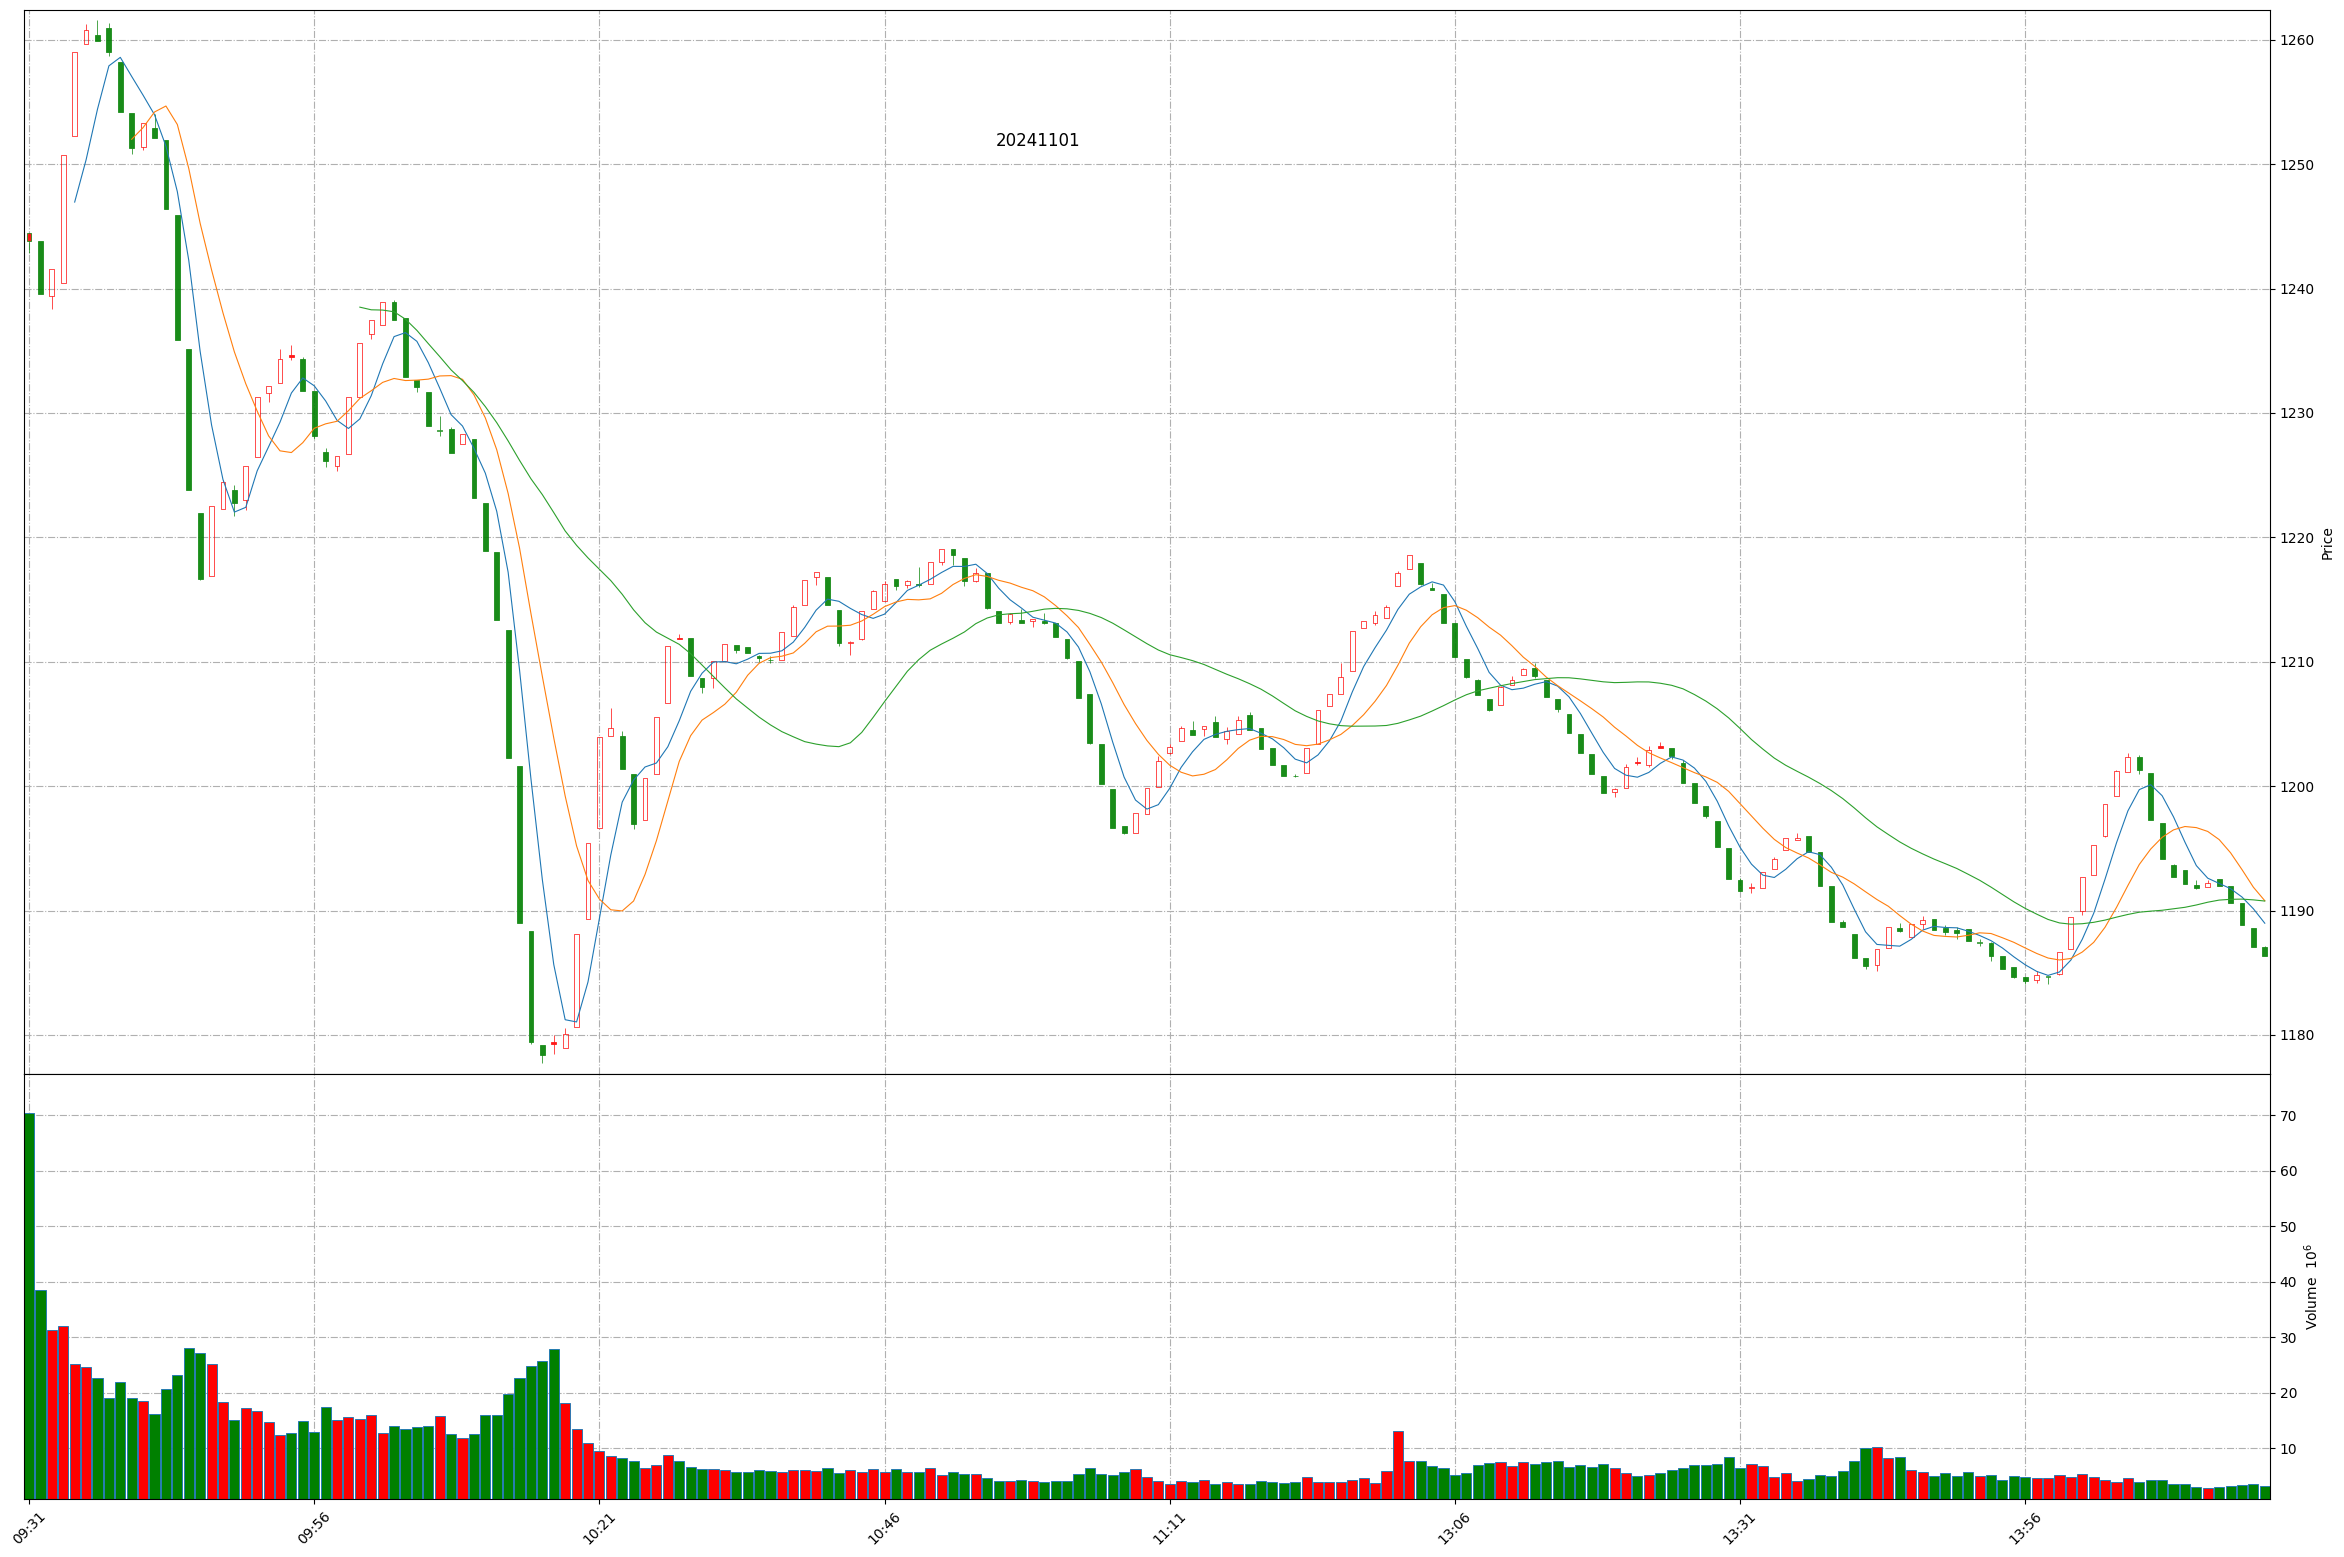
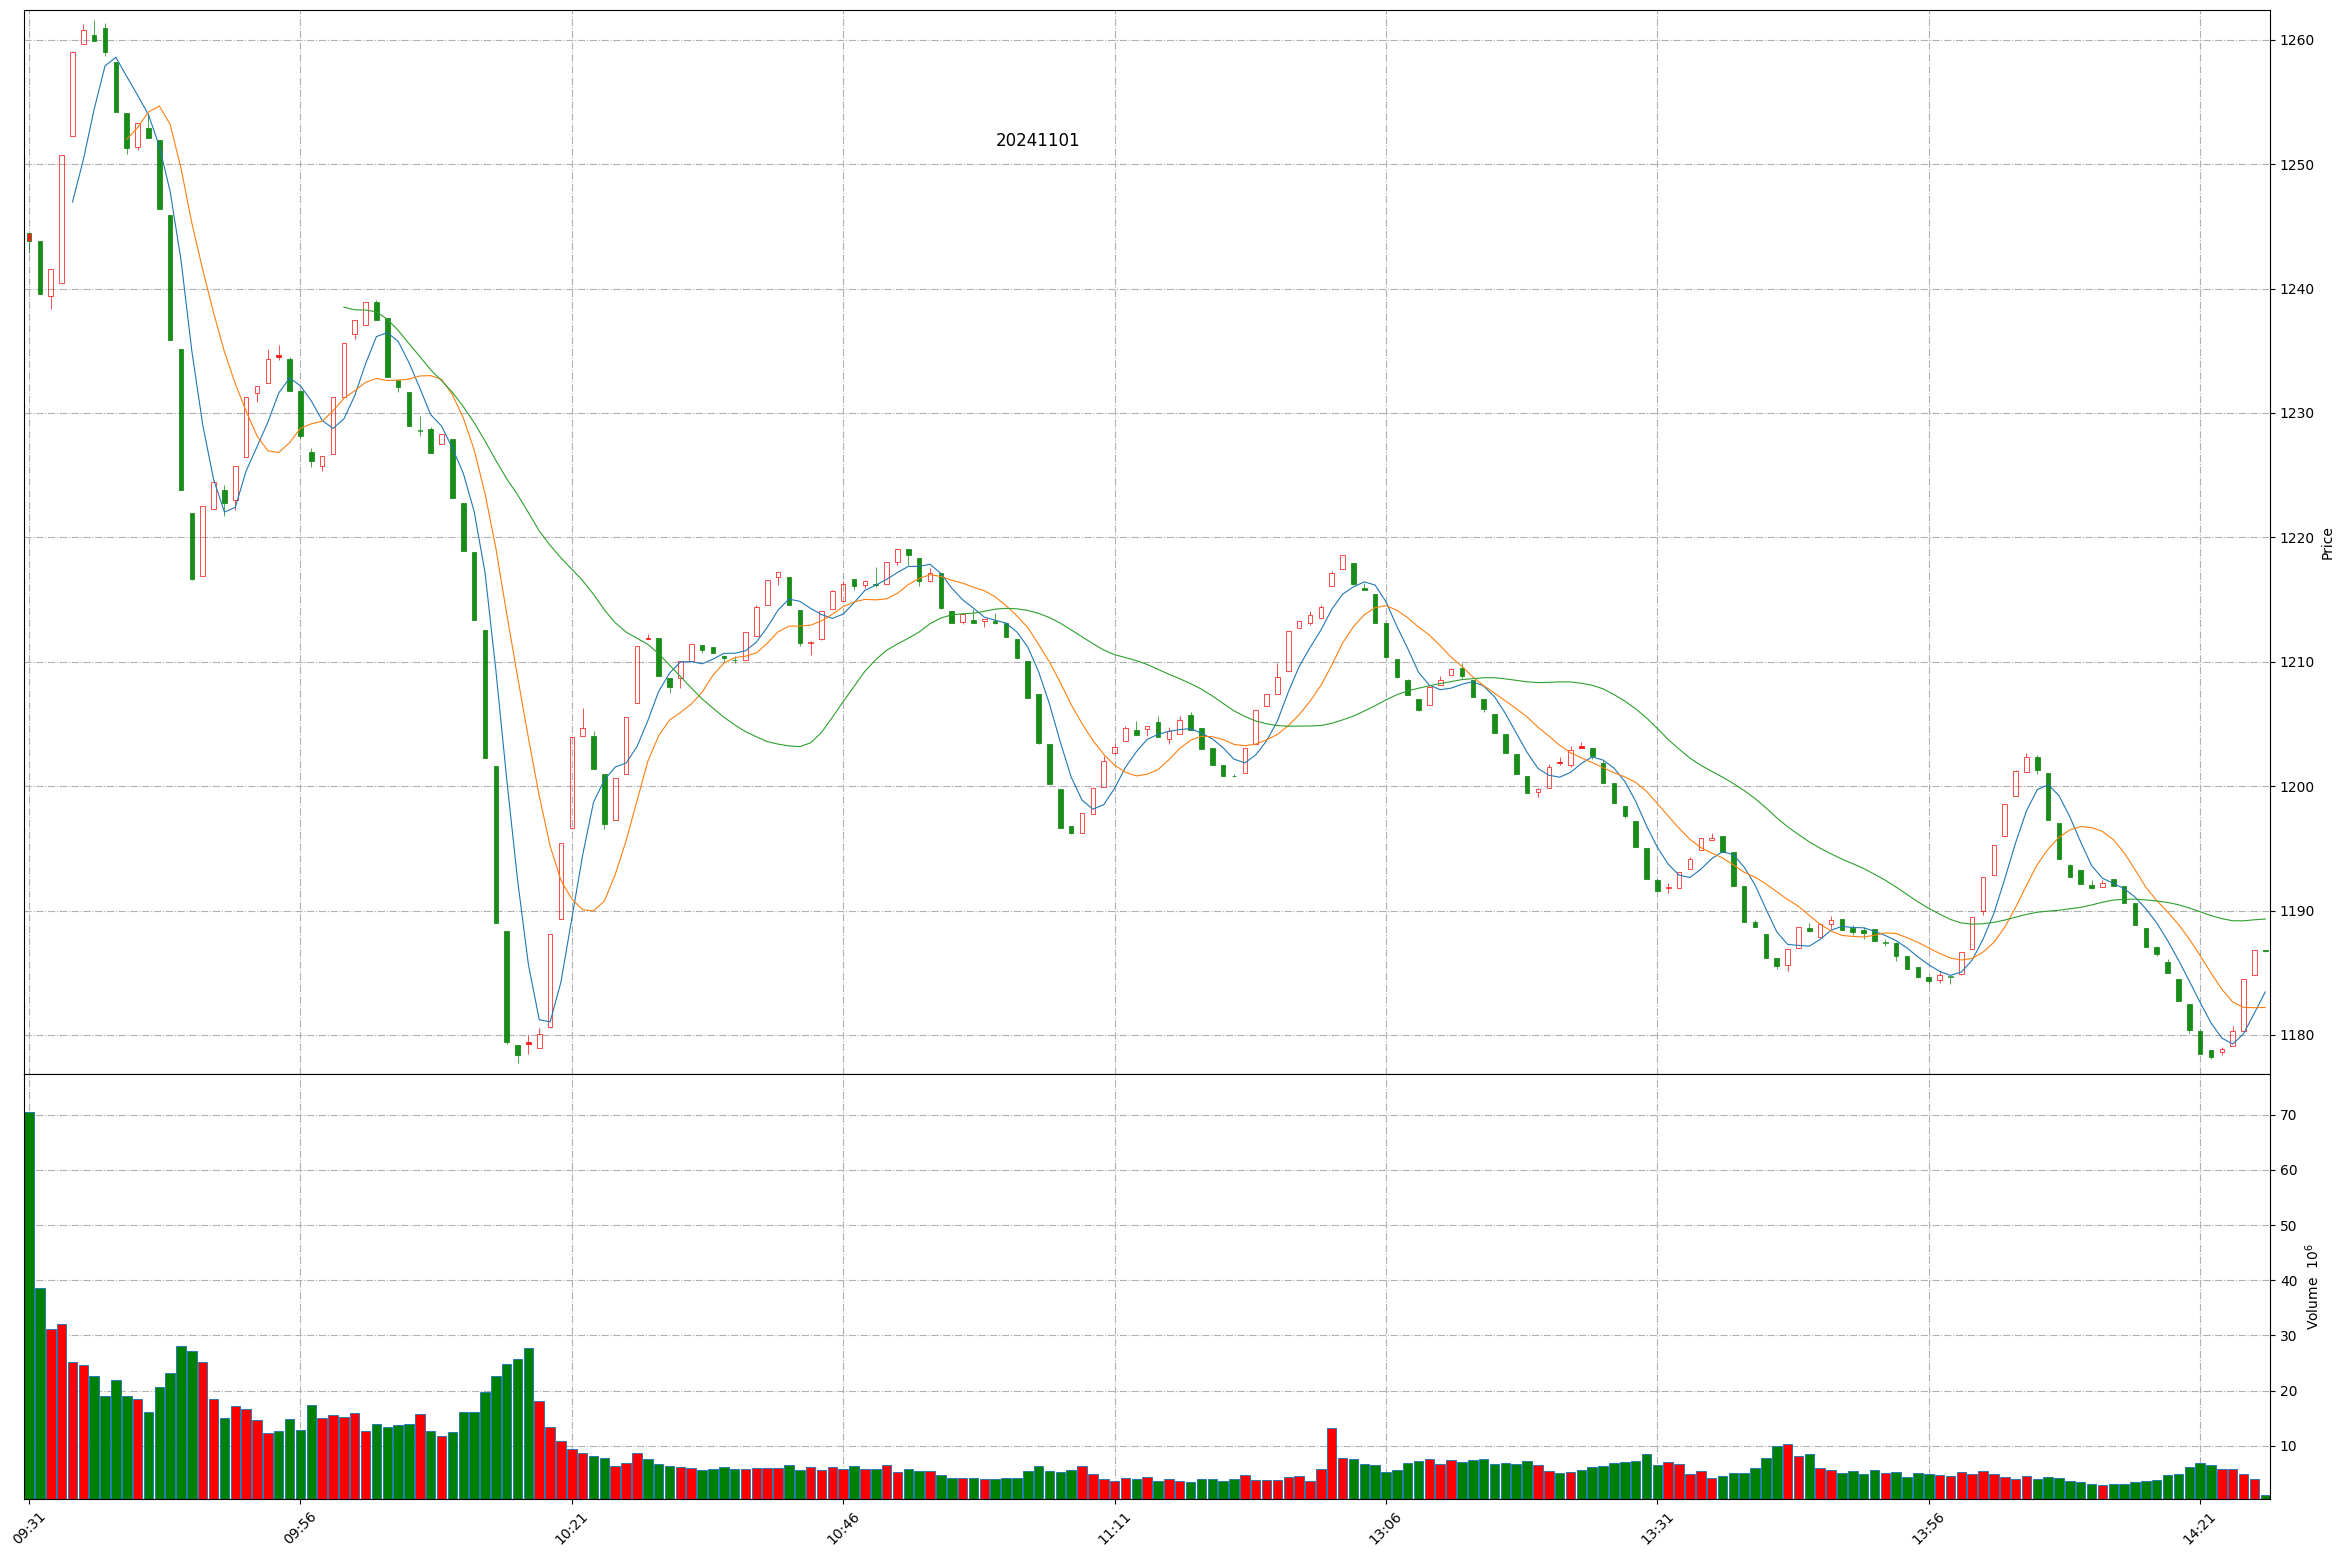
Github action update at 2024-11-01 14:26:36.

Changed region(s): [[0.0, 0.8632, 0.9654, 0.9865], [0.2803, 0.3391, 0.9654, 0.6782], [0.0311, 0.0308, 0.2803, 0.6782]]

diff --git a/README.md b/README.md
@@ -1,11 +1,11 @@
 
 # Daily-A-share-market-quotes 每日 A 股指数（5min 更新）- 20241101
 
-### 上证指数 20241101 14:17
+### 上证指数 20241101 14:26
 ![](./fig/2024/11/20241101-sh000001.png)
 
-### 深证成指 20241101 14:17
+### 深证成指 20241101 14:26
 ![](./fig/2024/11/20241101-sz399001.png)
 
-### 北证50 20241101 14:17
+### 北证50 20241101 14:26
 ![](./fig/2024/11/20241101-bj899050.png)
